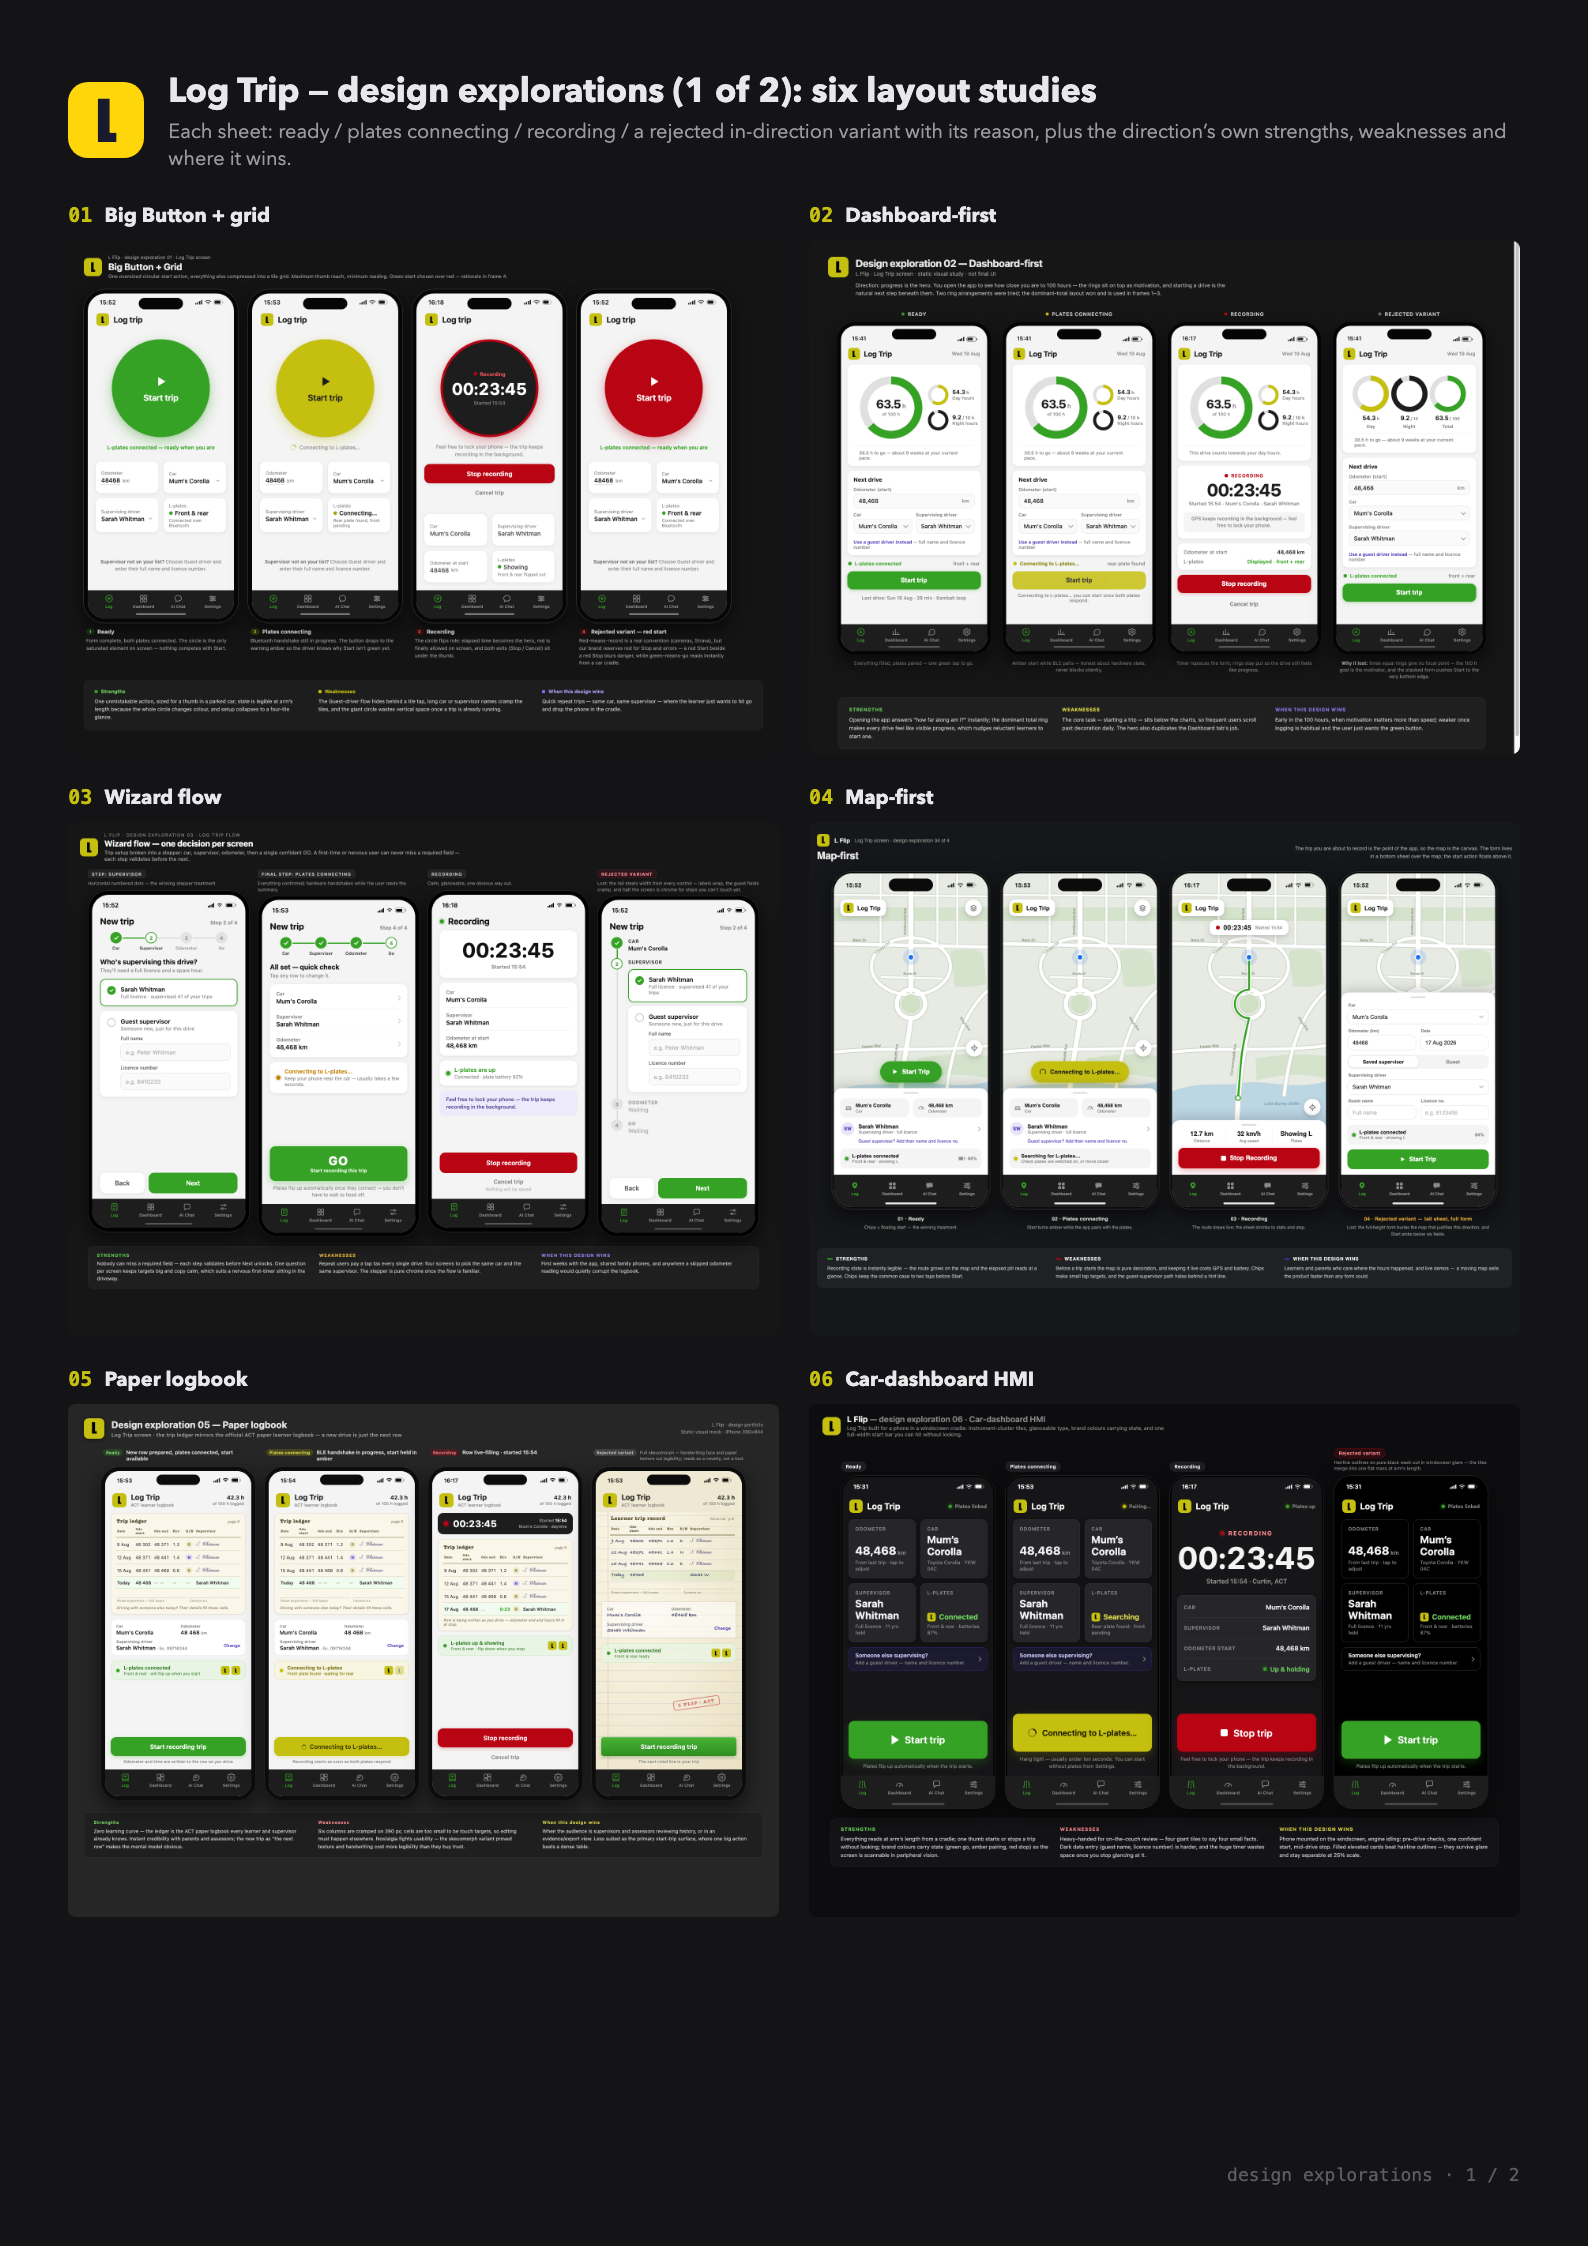
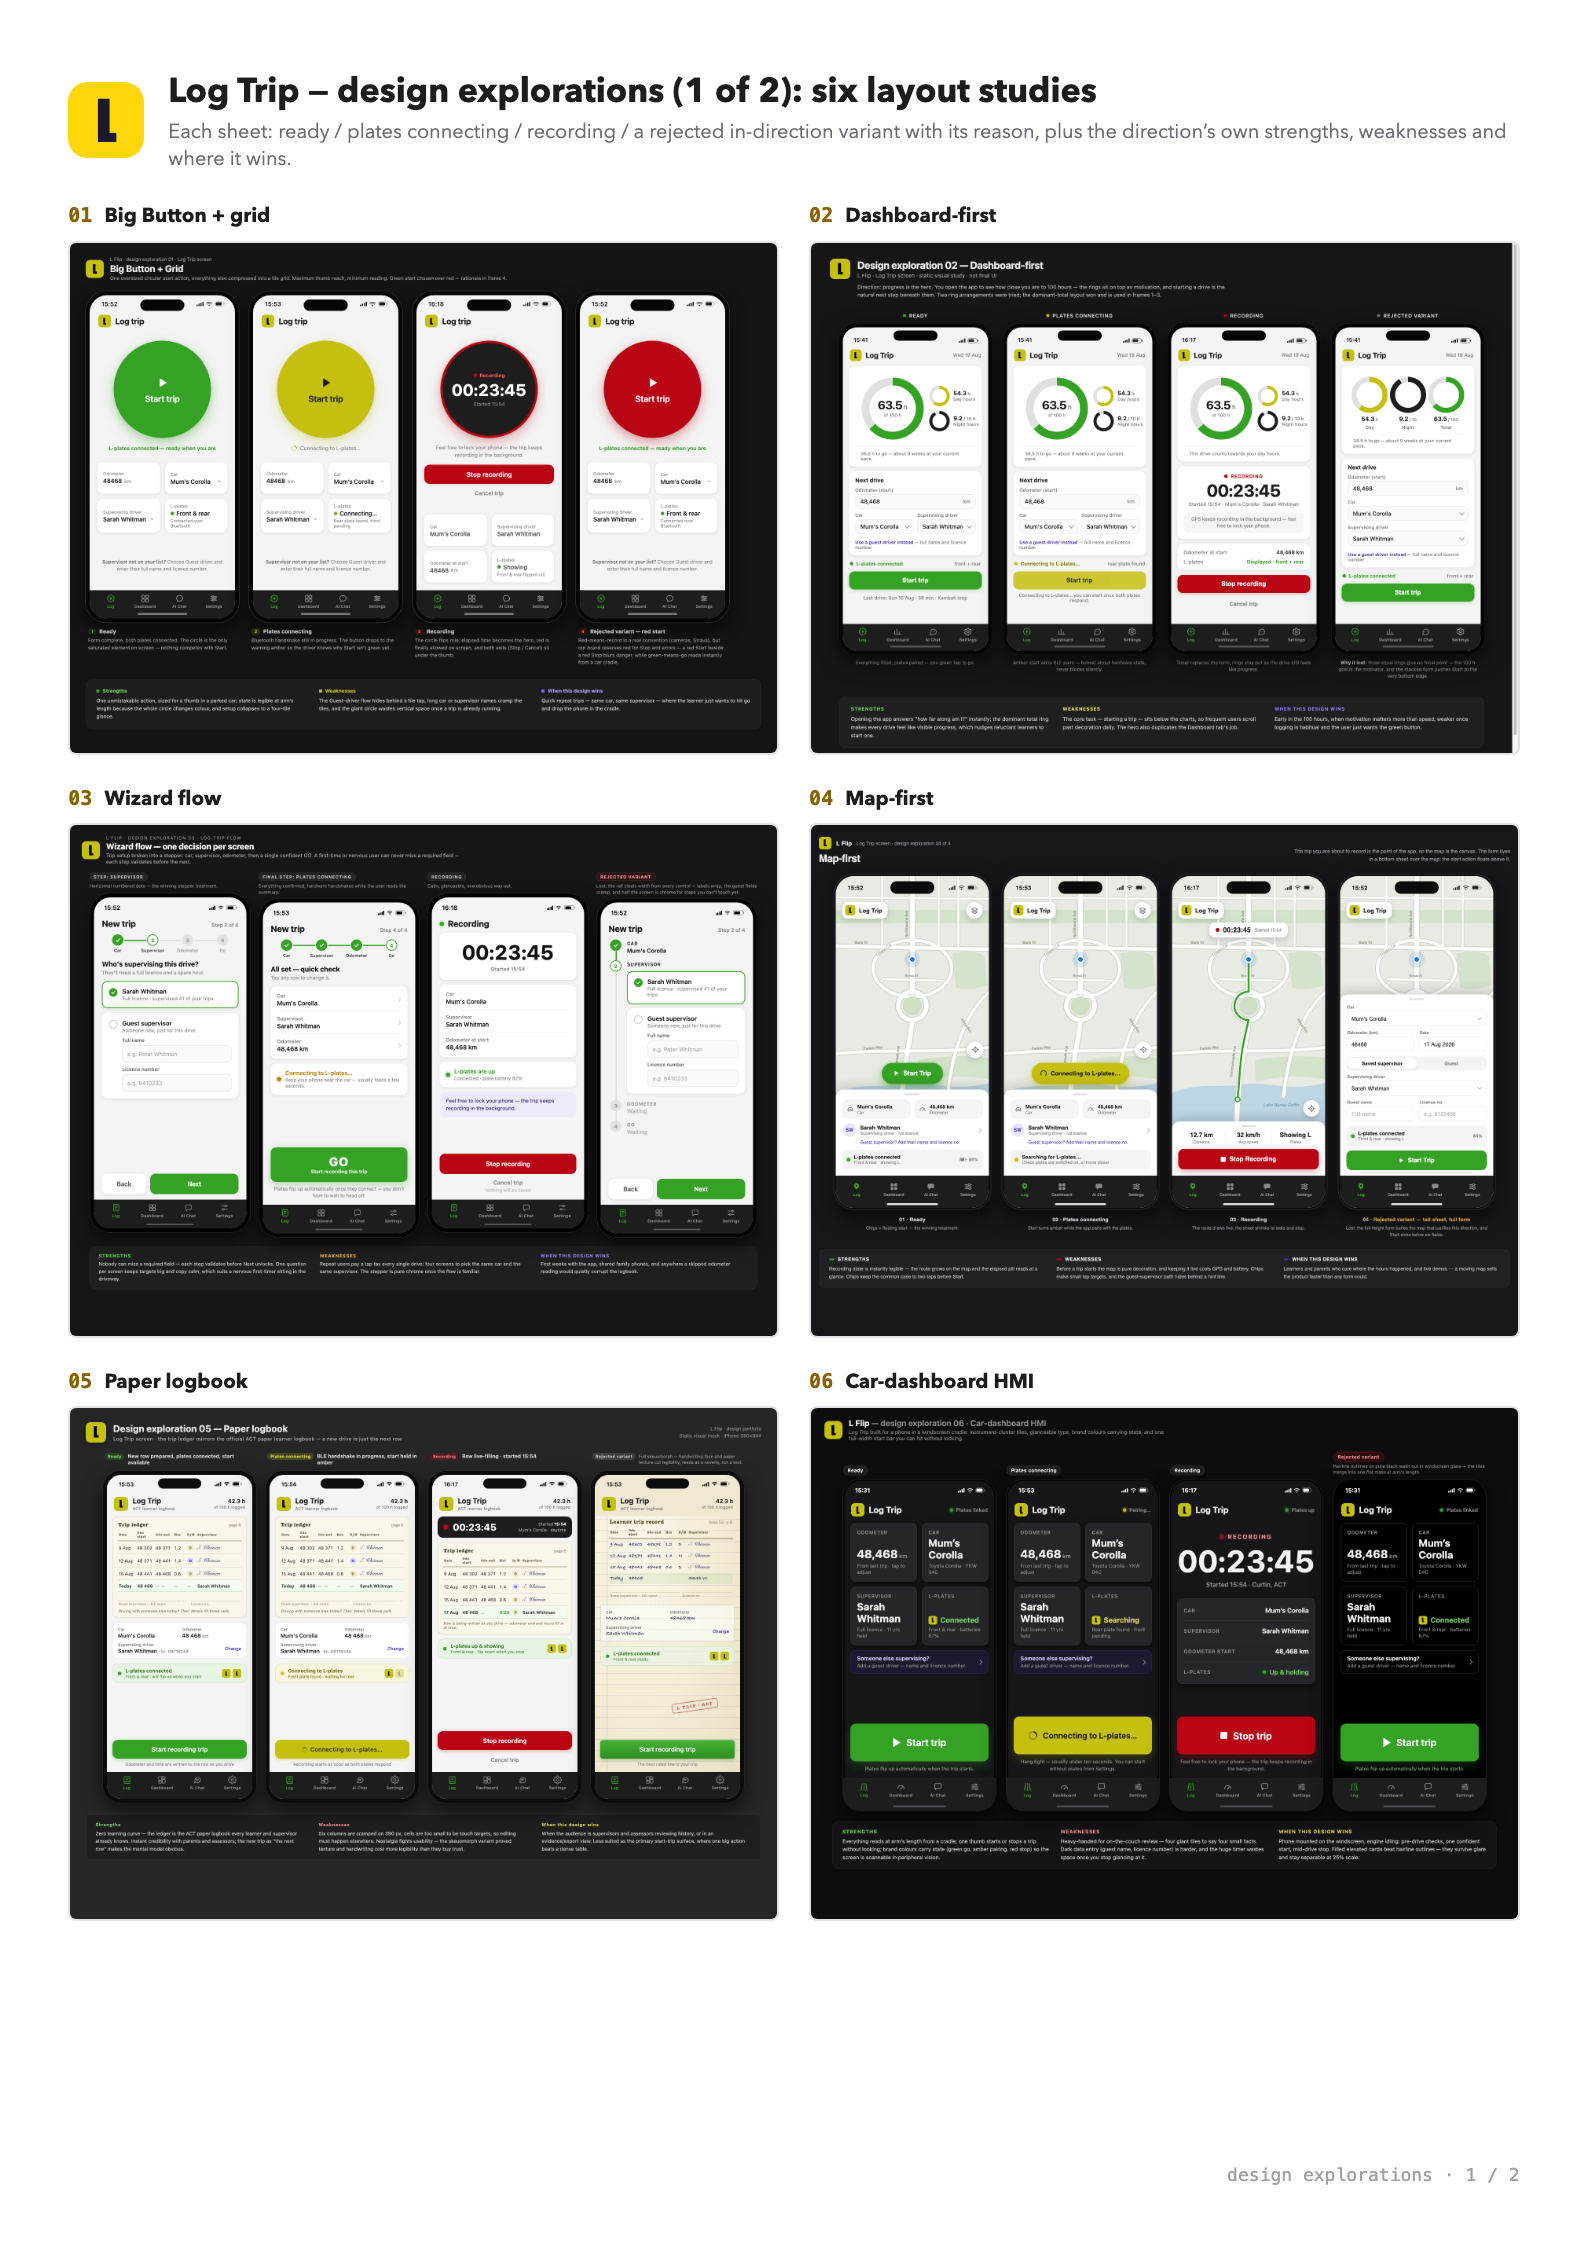
Switch the folio export pages to light mode

diff --git a/documentation/design_explorations/folio_p2.html b/documentation/design_explorations/folio_p2.html
@@ -1,26 +1,26 @@
 <title>folio p2</title><style>
   *{box-sizing:border-box;margin:0}
-  html,body{background:#141416;color:#e8e8ea;font-family:"Avenir Next","Segoe UI",Helvetica,Arial,sans-serif}
-  .page{width:210mm;height:297mm;margin:0 auto;background:#141416;padding:9mm 9mm 8mm;display:flex;flex-direction:column;gap:4mm;
+  html,body{background:#ffffff;color:#1d1d1d;font-family:"Avenir Next","Segoe UI",Helvetica,Arial,sans-serif}
+  .page{width:210mm;height:297mm;margin:0 auto;background:#ffffff;padding:9mm 9mm 8mm;display:flex;flex-direction:column;gap:4mm;
         -webkit-print-color-adjust:exact;print-color-adjust:exact}
   header{display:flex;gap:12px;align-items:center}
   .badge{width:38px;height:38px;border-radius:10px;background:#ffd60a;color:#1a1a2e;font-family:Impact,sans-serif;
          font-size:27px;display:flex;align-items:center;justify-content:center;flex:none}
-  h1{font-size:17px;font-weight:700} header p{color:#9a9aa2;font-size:10px;margin-top:2px;line-height:1.35}
+  h1{font-size:17px;font-weight:700} header p{color:#6b6b74;font-size:10px;margin-top:2px;line-height:1.35}
   .grid{display:grid;grid-template-columns:1fr 1fr;gap:4mm}
   .cell h2{font-size:10px;font-weight:700;margin-bottom:1.5mm}
-  .cell h2 span{color:#c5bf10;font-family:"SF Mono",Menlo,monospace;margin-right:6px}
-  .cell img{width:100%;height:auto;border-radius:4px;display:block}
-  .pn{margin-top:auto;text-align:right;color:#5c5c64;font-size:9px;font-family:"SF Mono",Menlo,monospace}
+  .cell h2 span{color:#8a6100;font-family:"SF Mono",Menlo,monospace;margin-right:6px}
+  .cell img{width:100%;height:auto;border-radius:4px;display:block;border:1px solid #e2e2e6}
+  .pn{margin-top:auto;text-align:right;color:#a0a0a8;font-size:9px;font-family:"SF Mono",Menlo,monospace}
   table{border-collapse:collapse;width:100%;font-size:8.5px}
-  th,td{border:1px solid #2c2c32;padding:3px 4px;text-align:center;font-variant-numeric:tabular-nums}
-  th{font-size:7.5px;font-weight:700} th i{display:block;font-style:normal;font-weight:400;color:#9a9aa2;font-size:6.8px}
+  th,td{border:1px solid #d8d8de;padding:3px 4px;text-align:center;font-variant-numeric:tabular-nums}
+  th{font-size:7.5px;font-weight:700} th i{display:block;font-style:normal;font-weight:400;color:#6b6b74;font-size:6.8px}
   td:first-child,th:first-child{text-align:left}
-  td.b{color:#36a225;font-weight:700}
-  tr.t td{border-top:1.5px solid #e8e8ea;font-weight:700}
-  .decide{border:1px solid #2c2c32;border-left:3px solid #36a225;border-radius:8px;padding:8px 10px;font-size:9.5px;line-height:1.45}
-  .decide b{color:#e8e8ea} .decide p{margin-bottom:4px;color:#c9c9cf} .decide p:last-child{margin-bottom:0}
-  .sec{font-size:9px;font-weight:700;color:#9a9aa2;letter-spacing:.08em;text-transform:uppercase}
+  td.b{color:#2e7d43;font-weight:700}
+  tr.t td{border-top:1.5px solid #1d1d1d;font-weight:700}
+  .decide{border:1px solid #d8d8de;border-left:3px solid #36a225;border-radius:8px;padding:8px 10px;font-size:9.5px;line-height:1.45;background:#fafafa}
+  .decide b{color:#1d1d1d} .decide p{margin-bottom:4px;color:#3c3c44} .decide p:last-child{margin-bottom:0}
+  .sec{font-size:9px;font-weight:700;color:#6b6b74;letter-spacing:.08em;text-transform:uppercase}
 </style><div class="page">
   <header><div class="badge">L</div><div><h1>Log Trip — design explorations (2 of 2): four mechanism studies, scoring, decision</h1>
   <p>Round one converged on form-plus-button, so round two banned form fields, primary buttons and card grids — the interaction mechanism itself had to differ.</p></div></header>

diff --git a/documentation/design_explorations/folio_p1.html b/documentation/design_explorations/folio_p1.html
@@ -1,26 +1,26 @@
 <title>folio p1</title><style>
   *{box-sizing:border-box;margin:0}
-  html,body{background:#141416;color:#e8e8ea;font-family:"Avenir Next","Segoe UI",Helvetica,Arial,sans-serif}
-  .page{width:210mm;height:297mm;margin:0 auto;background:#141416;padding:9mm 9mm 8mm;display:flex;flex-direction:column;gap:4mm;
+  html,body{background:#ffffff;color:#1d1d1d;font-family:"Avenir Next","Segoe UI",Helvetica,Arial,sans-serif}
+  .page{width:210mm;height:297mm;margin:0 auto;background:#ffffff;padding:9mm 9mm 8mm;display:flex;flex-direction:column;gap:4mm;
         -webkit-print-color-adjust:exact;print-color-adjust:exact}
   header{display:flex;gap:12px;align-items:center}
   .badge{width:38px;height:38px;border-radius:10px;background:#ffd60a;color:#1a1a2e;font-family:Impact,sans-serif;
          font-size:27px;display:flex;align-items:center;justify-content:center;flex:none}
-  h1{font-size:17px;font-weight:700} header p{color:#9a9aa2;font-size:10px;margin-top:2px;line-height:1.35}
+  h1{font-size:17px;font-weight:700} header p{color:#6b6b74;font-size:10px;margin-top:2px;line-height:1.35}
   .grid{display:grid;grid-template-columns:1fr 1fr;gap:4mm}
   .cell h2{font-size:10px;font-weight:700;margin-bottom:1.5mm}
-  .cell h2 span{color:#c5bf10;font-family:"SF Mono",Menlo,monospace;margin-right:6px}
-  .cell img{width:100%;height:auto;border-radius:4px;display:block}
-  .pn{margin-top:auto;text-align:right;color:#5c5c64;font-size:9px;font-family:"SF Mono",Menlo,monospace}
+  .cell h2 span{color:#8a6100;font-family:"SF Mono",Menlo,monospace;margin-right:6px}
+  .cell img{width:100%;height:auto;border-radius:4px;display:block;border:1px solid #e2e2e6}
+  .pn{margin-top:auto;text-align:right;color:#a0a0a8;font-size:9px;font-family:"SF Mono",Menlo,monospace}
   table{border-collapse:collapse;width:100%;font-size:8.5px}
-  th,td{border:1px solid #2c2c32;padding:3px 4px;text-align:center;font-variant-numeric:tabular-nums}
-  th{font-size:7.5px;font-weight:700} th i{display:block;font-style:normal;font-weight:400;color:#9a9aa2;font-size:6.8px}
+  th,td{border:1px solid #d8d8de;padding:3px 4px;text-align:center;font-variant-numeric:tabular-nums}
+  th{font-size:7.5px;font-weight:700} th i{display:block;font-style:normal;font-weight:400;color:#6b6b74;font-size:6.8px}
   td:first-child,th:first-child{text-align:left}
-  td.b{color:#36a225;font-weight:700}
-  tr.t td{border-top:1.5px solid #e8e8ea;font-weight:700}
-  .decide{border:1px solid #2c2c32;border-left:3px solid #36a225;border-radius:8px;padding:8px 10px;font-size:9.5px;line-height:1.45}
-  .decide b{color:#e8e8ea} .decide p{margin-bottom:4px;color:#c9c9cf} .decide p:last-child{margin-bottom:0}
-  .sec{font-size:9px;font-weight:700;color:#9a9aa2;letter-spacing:.08em;text-transform:uppercase}
+  td.b{color:#2e7d43;font-weight:700}
+  tr.t td{border-top:1.5px solid #1d1d1d;font-weight:700}
+  .decide{border:1px solid #d8d8de;border-left:3px solid #36a225;border-radius:8px;padding:8px 10px;font-size:9.5px;line-height:1.45;background:#fafafa}
+  .decide b{color:#1d1d1d} .decide p{margin-bottom:4px;color:#3c3c44} .decide p:last-child{margin-bottom:0}
+  .sec{font-size:9px;font-weight:700;color:#6b6b74;letter-spacing:.08em;text-transform:uppercase}
 </style><div class="page">
   <header><div class="badge">L</div><div><h1>Log Trip — design explorations (1 of 2): six layout studies</h1>
   <p>Each sheet: ready / plates connecting / recording / a rejected in-direction variant with its reason, plus the direction&rsquo;s own strengths, weaknesses and where it wins.</p></div></header>
